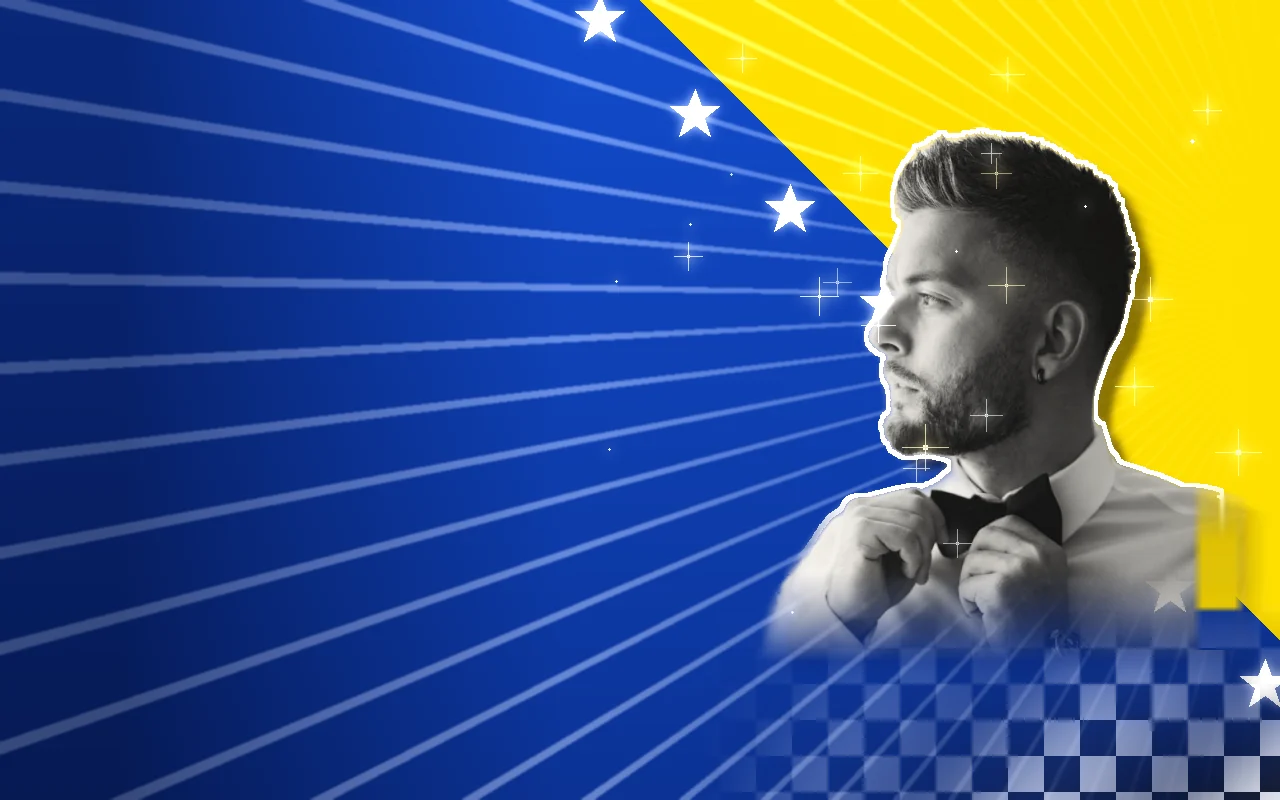
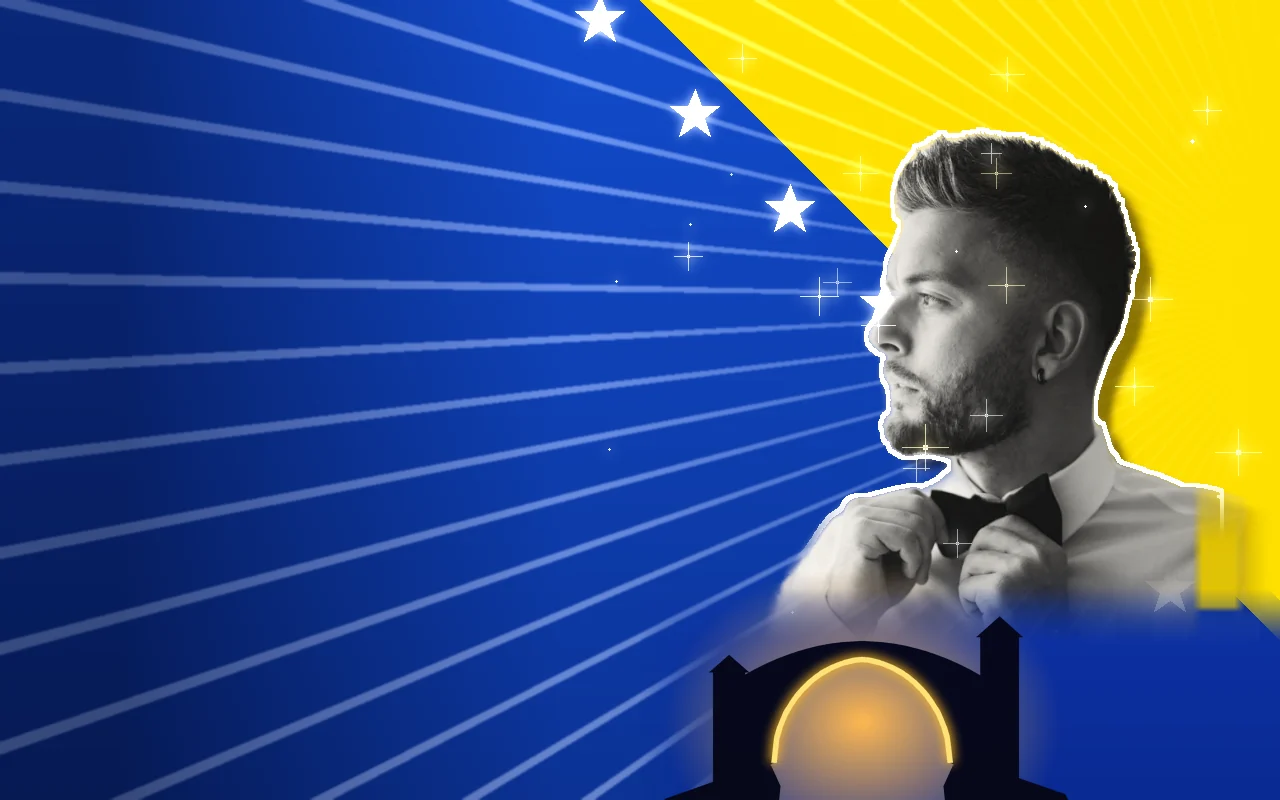
CITY E groups 2 + 3 — THE LAB ITEMS + THE TEXT PANEL HUGS THE TEXT. #206 (the Mostar flag card, renamed MOSTARAC per the owner's note): the chequered flag GONE, Mostar's Old Bridge drawn in its place (scripts/build-card-pass-art.py#stari_most — one tall slender arch + its two towers, a bold dark sil

Changed region(s): [[0.5312, 0.7188, 1.0, 1.0]]

diff --git a/api/_lib/lab-text.js b/api/_lib/lab-text.js
@@ -504,8 +504,8 @@ export const LAB_TEXT = {
  "full-card-gift-wastelander": {"name": "WASTELANDER · FULL CARD", "motion": "Grok's bunker terminal: THE GAME TYPES on the blank green screen, line by line — > SURVIVOR FILE · > RADS ...... 0 · > CAPS .. 1,024 · > STATUS LEGEND · > _ (dark phosphor green; the words are yours to change) — the block cursor blinks, the CRT's glow flickers, sparks crackle at the screen's edge now + then, dust drifts. Nothing of any game's trademarks. Reduced motion = the typed screen."},
  "card-gift-survivor": {"name": "SOLE SURVIVOR", "motion": "GIFT · 1 OF 1 (your buddy — give it in /admin → GIFTS; card art generated with Grok Imagine) — its own strip picture (the radiation sign far right): the haze breathing on the sun, embers drifting up, the sign creaking a hair."},
  "full-card-gift-survivor": {"name": "SOLE SURVIVOR · FULL CARD", "motion": "Grok's ruined city at a radioactive sunset: embers drift up across the card, the haze breathes on the sun, heat shimmer over the skyline, the rusted radiation sign creaks a hair on its stand. Nothing of any game's trademarks. Reduced motion = the approved picture."},
- "card-gift-zadomovinu": {"name": "ZA DOMOVINU", "motion": "GIFT · 1 OF 1 (the Mostar friend — give it in /admin → GIFTS) — THE FLAG STRIP (shared with STARI MOST; his face far right): the stars twinkling in turn, a sparkle or two."},
- "full-card-gift-zadomovinu": {"name": "ZA DOMOVINU · FULL CARD", "motion": "Bosnia's flag: the chequered race flag ripples bottom-right (a light band rolling along it), the white stars twinkle in turn, the speed lines rush out from behind him, sparkles on the gold. Reduced motion = the approved picture."},
+ "card-gift-zadomovinu": {"name": "MOSTARAC", "motion": "GIFT · 1 OF 1 (the Mostar friend — give it in /admin → GIFTS; was ZA DOMOVINU — the owner's Lab note, CITY E) — its OWN flag strip now: THE FLAG STRIP + a small Old Bridge (THE STARI MOST) left of him, his face far right: the stars twinkling in turn, a sparkle or two."},
+ "full-card-gift-zadomovinu": {"name": "MOSTARAC · FULL CARD", "motion": "Bosnia's flag — the chequered race flag GONE (CITY E): THE STARI MOST in its place under him, one tall slender stone arch + its two towers as a bold dark silhouette against a warm glow, the arch's underside lit gold; the white stars twinkle in turn, the speed lines rush out from behind him, sparkles on the gold. Reduced motion = the picture."},
  "card-gift-starimost": {"name": "STARI MOST", "motion": "GIFT · 1 OF 1 (the Mostar friend — give it in /admin → GIFTS; background art generated with Grok Imagine) — THE FLAG STRIP (shared with ZA DOMOVINU): the stars twinkling in turn, a sparkle or two."},
  "full-card-gift-starimost": {"name": "STARI MOST · FULL CARD", "motion": "Golden hour on the Old Bridge: the sun's flare breathes right behind his head, sparks spray off the red race car on the river road, the river shimmers; his shirt's lower edge blended into the water (no soft box). Reduced motion = the approved picture."},
  "card-first-ko": {"name":"FIRST KO","motion":"COMMON (PRISM DROP — knock a player out in a BATTLE): drawn in code in the night’s neon — ONE big cyan neon block (the long piece’s colour) hanging over the board’s faint grid, breathing; every ~7 s it trembles, white-hot CRACKS race from an impact point out to its edges, then it BURSTS — each shard a real piece of the block flying + spinning out, sparks ahead of them, a white flash + a ring — and “KO” pops in over it in red neon tube letters, holds, fades, and the block re-forms. Mostly at rest (a common). The block ≈ 0.80 across, clear of the gem."},
@@ -520,6 +520,10 @@ export const LAB_TEXT = {
 // THE LAB 2.0 (THE VAULT 2C) — WHAT CHANGED, per item + version (js/vault/catalog.js#LAB_V holds the numbers): the lab shows the newest
 // line beside his old mark ("CHANGED Nov 3 — …"). A pass that edits an item's art / words bumps its LAB_V + adds its line here.
 export const LAB_CHANGES = {
+  // (CITY E — the owner's Lab FIX marks, Nov 15)
+  'full-card-gift-zadomovinu': [{ v: 2, at: '2026-11-15', what: 'YOUR FIX (CITY E): the chequered flag is GONE (it read as Croatian) — THE STARI MOST in its place under him: one tall, slender stone arch with its two small towers, a bold dark silhouette against a warm glow, the arch’s underside lit gold; the card is now called MOSTARAC (your note).' }],
+  'card-gift-zadomovinu': [{ v: 2, at: '2026-11-15', what: 'With its full card’s FIX (CITY E): renamed MOSTARAC, and its slim card has its OWN flag strip now — a small Old Bridge between the flag’s yellow and him (the STARI MOST card keeps the shared strip).' }],
+  'emb-horseshoe': [{ v: 2, at: '2026-11-15', what: 'YOUR FIX (CITY E): it read as a donut — now a clear U: a wide open gap at the top, flared heels, nail holes along both arms.' }],
   'full-card-sg-ufo': [{ v: 2, at: '2026-11-15', what: 'THE STANDARD LAYOUT (CITY C): laid out like every other full card — the top line, the plate mid-left, the gem, MEMBER SINCE + MEMBER Nº bottom-left and the sighting’s name + spot line bottom-right; the subject moved RIGHT of the plate (it sat mid-card over the old bottom plate).' }],
   'full-card-sg-tr3b': [{ v: 2, at: '2026-11-15', what: 'THE STANDARD LAYOUT (CITY C): laid out like every other full card — the top line, the plate mid-left, the gem, MEMBER SINCE + MEMBER Nº bottom-left and the sighting’s name + spot line bottom-right; the subject moved RIGHT of the plate (it sat mid-card over the old bottom plate).' }],
   'full-card-sg-f22': [{ v: 2, at: '2026-11-15', what: 'THE STANDARD LAYOUT (CITY C): laid out like every other full card — the top line, the plate mid-left, the gem, MEMBER SINCE + MEMBER Nº bottom-left and the sighting’s name + spot line bottom-right; the subject moved RIGHT of the plate (it sat mid-card over the old bottom plate).' }],

diff --git a/js/vault/emblem-art.js b/js/vault/emblem-art.js
@@ -371,6 +371,8 @@ const FIN = {
 // bright accent); the effects TOUCH or SURROUND it. The neon ones carry their own accents (fx: their own layers); the specials use the
 // finishes below (METAL — silver · gold · black · grey · obsidian —, SPECTRAL, AURORA, COMET, BALLOON, COIN, AUTUMN).
 const circ = (cx, cy, r) => `M${cx - r} ${cy} A${r} ${r} 0 1 0 ${cx + r} ${cy} A${r} ${r} 0 1 0 ${cx - r} ${cy} Z`;
+// (CITY E — the horseshoe as a clear U: the flared heel tops, the straight arms, the toe's two arcs (radius 15 out, 9 in, round (24, 27)))
+const SHOE = 'M5.8 8.5 H14.8 L15 13 V27 A9 9 0 0 0 33 27 V13 L33.2 8.5 H42.2 L39 14 V27 A15 15 0 0 1 9 27 V14 Z';
 const star5 = (cx, cy, R, r = R * 0.45) => { let d = ''; for (let i = 0; i < 10; i++) { const a = -Math.PI / 2 + i * Math.PI / 5, q = i % 2 ? r : R; d += `${i ? 'L' : 'M'}${(cx + Math.cos(a) * q).toFixed(2)} ${(cy + Math.sin(a) * q).toFixed(2)} `; } return `${d}Z`; };
 const scaleY = (d, cy, k) => d.replace(/(-?\d+(?:\.\d+)?)\s+(-?\d+(?:\.\d+)?)/g, (m, x, y) => `${x} ${(cy + (+y - cy) * k).toFixed(2)}`);
 const mirrorX = d => d.replace(/([MLCQHAVZ])|(-?\d+(?:\.\d+)?)\s+(-?\d+(?:\.\d+)?)|(-?\d+(?:\.\d+)?)/g, (m, cmd, x, y, n) => (cmd ? cmd : x != null ? `${(48 - +x).toFixed(2)} ${y}` : m));
@@ -413,13 +415,14 @@ Object.assign(SH, {
       const B = C.layer('ve-lhbeam', `transform-origin:${pct(24)} ${pct(16.2)}`); B.g.append(el('path', { d: 'M24 16.2 L44 10.5 L44 21.9 Z', fill: '#ffe6a3', opacity: 0.56 }), el('path', { d: 'M24 16.2 L4 10.5 L4 21.9 Z', fill: '#ffe6a3', opacity: 0.28 }));
     } },
   // emb-horseshoe (THE CARD PASS — B7: OVERCLOCK's DUMB LUCK — you backed the winning horse) — a LUCKY GOLD horseshoe in neon tubes, opening UP
-  // (it holds the luck): the band one closed tube (gold) — a round ~300° shoe with a narrow gap at the top, so it never reads as a letter U, its six nail holes (pale gold dots — they read at 24 pt as a dotted band), a soft warm
-  // glow breathing behind it + a glint TWINKLING on its right heel (two layers: opacity + transform). Readable at the plate's ~24 pt size.
-  shoe: { tubes: [{ d: 'M17.45 10.95 A15.5 15.5 0 1 0 30.55 10.95 L26.33 16.31 A9 9 0 1 1 21.67 16.31 Z', col: '#ffc94a' },
-      { d: `${circ(12.9, 19.8, 1.05)} ${circ(12.17, 28.17, 1.05)} ${circ(16.97, 35.03, 1.05)} ${circ(31.03, 35.03, 1.05)} ${circ(35.83, 28.17, 1.05)} ${circ(35.1, 19.8, 1.05)}`, col: '#fff1b8', thin: true }],
+  // (it holds the luck). CITY E — the owner's Lab FIX ("it looks like a donut"): a clear U — a WIDE open gap at the top (the inner arms 18 apart),
+  // straight arms, FLARED heels (each heel wider than its arm), the round toe at the bottom; its eight nail holes along both arms (pale gold
+  // dots), a soft warm glow breathing behind it + a glint TWINKLING on its right heel (two layers: opacity + transform). Reads at ~24 pt.
+  shoe: { tubes: [{ d: SHOE, col: '#ffc94a' },
+      { d: [[12, 14.5], [12, 20.5], [12.2, 26.5], [14.3, 33.4], [36, 14.5], [36, 20.5], [35.8, 26.5], [33.7, 33.4]].map(([x, y]) => circ(x, y, 1.05)).join(' '), col: '#fff1b8', thin: true }],
     fx(C) {
-      const G = C.layer('ve-keyglow'); G.g.append(el('path', { d: 'M17.45 10.95 A15.5 15.5 0 1 0 30.55 10.95 L26.33 16.31 A9 9 0 1 1 21.67 16.31 Z', fill: '#ffd27a', opacity: 0.28 }));
-      const L = C.layer('ve-tw2', `transform-origin:${pct(33.5)} ${pct(8.6)}`); L.g.append(el('path', { d: starPath(33.5, 8.6, 4.4), fill: '#fffbe6' }), el('circle', { cx: 33.5, cy: 8.6, r: 3, fill: '#ffd27a', opacity: 0.4 }));
+      const G = C.layer('ve-keyglow'); G.g.append(el('path', { d: SHOE, fill: '#ffd27a', opacity: 0.28 }));
+      const L = C.layer('ve-tw2', `transform-origin:${pct(38.5)} ${pct(7.6)}`); L.g.append(el('path', { d: starPath(38.5, 7.6, 4.2), fill: '#fffbe6' }), el('circle', { cx: 38.5, cy: 7.6, r: 3, fill: '#ffd27a', opacity: 0.4 }));
     } },
   // emb-stars — three stars (gold, pink, cyan); the light HOPPING star to star
   stars3: { tubes: [{ d: star5(24, 13.5, 8), col: '#ffcf5a' }, { d: star5(13.5, 31.5, 7), col: '#ff5fb4' }, { d: star5(34.5, 31.5, 7), col: '#5fd7ff' }],

diff --git a/css/vault.css b/css/vault.css
@@ -1070,7 +1070,7 @@ body.reduced-fx .vl-gem-gl, .vl-still .vl-gem-gl { opacity: 0.9; transform: none
 .vl-fcm-g-wastelander .vl-mat { background-image: url('../assets/vault/gift/wastelander.webp'); background-position: 50% 50%; }
 .vl-s-g-survivor .vl-mat { background: #120c06 url('../assets/vault/gift/survivor-strip.webp') 50% 50% / cover no-repeat; }
 .vl-fcm-g-survivor .vl-mat { background-image: url('../assets/vault/gift/survivor.webp'); background-position: 50% 50%; }
-.vl-s-g-zadomovinu .vl-mat { background: #0a2a8f url('../assets/vault/gift/mostar-strip.webp') 50% 50% / cover no-repeat; }
+.vl-s-g-zadomovinu .vl-mat { background: #0a2a8f url('../assets/vault/gift/zadomovinu-strip.webp') 50% 50% / cover no-repeat; }   /* (CITY E: its own strip — + the Old Bridge) */
 .vl-s-g-starimost .vl-mat { background: #0a2a8f url('../assets/vault/gift/mostar-strip.webp') 50% 50% / cover no-repeat; }
 .vl-fcm-g-zadomovinu .vl-mat { background-image: url('../assets/vault/gift/zadomovinu.webp'); background-position: 50% 50%; }
 .vl-fcm-g-starimost .vl-mat { background-image: url('../assets/vault/gift/starimost.webp'); background-position: 50% 50%; }
@@ -1176,10 +1176,13 @@ body.reduced-fx .vl-gem-gl, .vl-still .vl-gem-gl { opacity: 0.9; transform: none
    its own size (its approved exception) + gets the wash; ON AIR unchanged. Static (no animation). */
 .vl-fc { --vl-tw: 8, 5, 14; --vl-ta: 0.6; }
 .vl-fc.vl-fcm-brushed, .vl-fc.vl-fcm-chrome, .vl-fc.vl-fcm-brass, .vl-fc.vl-fcm-platinum, .vl-fc.vl-fcm-g-goldenhour { --vl-tw: 255, 248, 232; --vl-ta: 0.62; }
-.vl-fc-house, .vl-fc-since, .vl-fc-card { position: relative; }
-.vl-fc-house::before, .vl-fc-since::before, .vl-fc-card::before { content: ''; position: absolute; inset: -0.2em -0.45em; z-index: -1; pointer-events: none;
+/* (CITY E — THE TEXT PANEL HUGS THE TEXT, the owner, Nov 15: the glass is trimmed to the WORDS + a small even pad on every full card — the
+   rank line wears its own, the MEMBER SINCE / MEMBER Nº rows theirs; never one panel over the empty space beside a short rank. The top line,
+   the foil line + the card's name already hug theirs) */
+.vl-fc-house, .vl-fc-rank, .vl-fc-rows, .vl-fc-card { position: relative; }
+.vl-fc-house::before, .vl-fc-rank::before, .vl-fc-rows::before, .vl-fc-card::before { content: ''; position: absolute; inset: -0.2em -0.45em; z-index: -1; pointer-events: none;
   border-radius: 0.9em; background: rgba(var(--vl-tw), var(--vl-ta)); box-shadow: 0 0 0.9em 0.55em rgba(var(--vl-tw), var(--vl-ta)); }
-.vl-fc-since::before { inset: -0.35em -0.55em; border-radius: 1.1em; }
+.vl-fc-rows::before { inset: -0.35em -0.55em; border-radius: 1.1em; }
 .vl-fc-house { font-size: max(10.5px, 2.9cqi); font-weight: 800; }   /* (11 px pushed every 1-of-1 line to its short "№ n" form at 402 — 10.5 keeps NEON SPEAKEASY beside the badge; fitTop never goes under 10) */
 .vl-fc-card { font-size: max(13px, 3.6cqi); font-weight: 800; letter-spacing: 0.14em; text-wrap: balance; }
 .vl-fc-since small { font-size: max(10px, 2.6cqi); }
@@ -1209,8 +1212,9 @@ body.reduced-fx .vl-gem-gl, .vl-still .vl-gem-gl { opacity: 0.9; transform: none
   background: linear-gradient(100deg, #4a2e04 0%, #6e4708 35%, #3a2403 60%, #5e3c06 100%); -webkit-background-clip: text; background-clip: text;
 }
 /* MEMBER SINCE + MEMBER Nº: label | value rows (the prototype) — the rank over both; never wrapped */
-.vl-fc-since { display: grid; grid-template-columns: auto auto; column-gap: 1.2em; row-gap: 0.62em; align-items: baseline; justify-content: start; }
-.vl-fc-since .vl-fc-rank { grid-column: 1 / -1; }
+.vl-fc-since { display: flex; flex-direction: column; align-items: flex-start; }
+.vl-fc-rows { display: grid; grid-template-columns: auto auto; column-gap: 1.2em; row-gap: 0.62em; align-items: baseline; justify-content: start; }
+.vl-fc-since .vl-fc-rank { display: block; }
 .vl-fc-since b { margin-top: 0; }
 .vl-fc-since small, .vl-fc-since b { white-space: nowrap; }
 

diff --git a/tests/integration/fullcard-preview.html b/tests/integration/fullcard-preview.html
@@ -6,7 +6,7 @@
 <title>Full cards — preview</title>
 <!-- CITY C — the REAL full cards (js/vault/full.js#fullCardEl) without Firebase, one under the other, each with its live effect:
      ?cards=card-founder,card-dev-switchboard,…  &fd=1 (a FOUNDING MEMBER)  &no=12 (MEMBER Nº)  &lv=12  &name=AMBER  &still=1 (reduced motion)
-     &glow=glow-candle (the name's glow) · &gilded=1 (+ THE GILDED fallback card — progress/card.js) · &strip=1 (+ each card's slim strip under it). The local server only. -->
+     &glow=glow-candle (the name's glow) · &emb=emb-horseshoe (the emblem on the plate + the strip) · &gilded=1 (+ THE GILDED fallback card — progress/card.js) · &strip=1 (+ each card's slim strip under it). The local server only. -->
 <link rel="preconnect" href="https://fonts.googleapis.com">
 <link rel="stylesheet" href="https://fonts.googleapis.com/css2?family=Chakra+Petch:wght@500;600;700&family=JetBrains+Mono:wght@400;700&family=Orbitron:wght@700;900&display=swap">
 <link rel="stylesheet" href="/css/base.css">
@@ -36,13 +36,13 @@ const q = new URLSearchParams(location.search);
 if (q.get('still') === '1') setFxReduced(true);
 const app = document.getElementById('app');
 const cards = q.get('strips') && !q.get('cards') ? [] : (q.get('cards') || 'card-founder,card-dev-switchboard,card-emerald').split(',').filter(Boolean);
-const who = { name: q.get('name') || 'AMBER', lv: Number(q.get('lv') || 12), avatar: 'hex', color: 'yellow', at: Date.UTC(2026, 10, 3), no: q.get('no') || '0012', fd: q.get('fd') === '1', glow: q.get('glow') || null };
+const who = { name: q.get('name') || 'AMBER', lv: Number(q.get('lv') || 12), avatar: 'hex', color: 'yellow', at: Date.UTC(2026, 10, 3), no: q.get('no') || '0012', fd: q.get('fd') === '1', glow: q.get('glow') || null, shape: q.get('emb') || null };   // (CITY E: &emb=emb-horseshoe — the plate + the strip wear that emblem)
 const surface = createSurface(app, { label: 'preview' });
 for (const id of cards) {
   app.append(h('div.lbl', id));
   const el = fullCardEl({ card: id, who: { ...who, ...(id.startsWith('card-dev-') ? { name: 'BEN', lv: 41, no: '0001', avatar: 'star', color: 'cyan' } : {}) }, spotted: Date.UTC(2026, 10, 3, 3, 14) });
   app.append(el); mountFull(surface, el, id, { seed: 3 });
-  if (q.get('strip') === '1') { const s = stripEl({ card: id, name: who.name, lv: who.lv, no: who.no }); app.append(s); const look = LOOKS[id]; if (look && look.fx && FX[look.fx]) surface.add(s, FX[look.fx], fxOpts(id, { seed: 1, calm: 1, radius: 12 })); }
+  if (q.get('strip') === '1') { const s = stripEl({ card: id, name: who.name, lv: who.lv, no: who.no, emblem: who.shape || undefined, avatar: who.shape ? 'hex' : undefined, color: who.shape ? 'yellow' : undefined }); app.append(s); const look = LOOKS[id]; if (look && look.fx && FX[look.fx]) surface.add(s, FX[look.fx], fxOpts(id, { seed: 1, calm: 1, radius: 12 })); }
 }
 // (CITY C group 3 — THE STRIP MATCH: ?strips=all|id,id → each slim strip TWICE — its material alone (#m-<id>, no effect) + live (#l-<id>);
 //  tests/integration/strip-match.mjs compares the two)

diff --git a/js/fx/gift-specs.js b/js/fx/gift-specs.js
@@ -234,14 +234,15 @@ export const GIFT_SPECS = Object.freeze({
     { t: 'region', src: [866, 3, 276, 253], mode: 'creak', piv: [1004, 294], amp: 0.007, period: 4.2, poly: [[1004, 11], [1136, 132], [1004, 259], [872, 132]] },
     { t: 'motes', box: [560, 0, 720, 256], n: 14, rgb: '255,150,60', size: [1.2, 3], dir: 'up', speed: 14, a: 0.7, kind: 'spark', tw: 0.7 },
   ] } },
-  // the flag card — Bosnia's flag: the chequered flag ripples, the stars twinkle in turn, the speed lines rush. Its strip = THE FLAG STRIP (shared
-  // with the Old Bridge card): the stars twinkle, a sparkle or two
+  // the flag card — Bosnia's flag: the stars twinkle in turn, the speed lines rush, the river shimmers under Mostar's old bridge (CITY E — the owner's
+  // Lab FIX: the chequered flag GONE, the bridge in its place; the card renamed — the name lives server-side). Its strip = its OWN flag strip (THE FLAG STRIP +
+  // a small Old Bridge left of him — the Old Bridge card keeps the shared one): the stars twinkle, a sparkle or two
   'card-gift-zadomovinu': { art: 'zadomovinu', hero: [870, 130, 270, 330], heroFull: [870, 130, 270, 330], strip: [50, 50], layers: [
     { t: 'rush', at: [1150, 330], ang: [2.72, 3.48], r: [380, 1250], n: 26, rgb: '220,235,255', a: 0.55, len: 160, speed: 0.55 },
-    { t: 'region', src: [740, 700, 540, 100], mode: 'ripple', axis: 'y', slices: 30, amp: 5, k: 7, speed: 3, shade: 0.12 },
-    { t: 'twinkle', pts: [[600, 17], [695, 113], [789, 207], [1263, 681]], rgb: '255,255,255', size: 34, period: 2.2 },
+    { t: 'shimmer', box: [600, 774, 680, 24], n: 22, rgb: '255,214,140', a: 0.5, len: 22 },
+    { t: 'twinkle', pts: [[600, 17], [695, 113], [789, 207]], rgb: '255,255,255', size: 34, period: 2.2 },
     { t: 'twinkle', pts: [[740, 60], [1210, 110], [1240, 450], [1000, 40]], rgb: '255,250,210', size: 22, period: 2.7 },
-  ], stripArt: { art: 'mostar-strip', h: 256, crop: [50, 50], hero: [958, 15, 135, 190], layers: [   // (the owner's flag strip, moved 100 px left)
+  ], stripArt: { art: 'zadomovinu-strip', h: 256, crop: [50, 50], hero: [958, 15, 135, 190], layers: [   // (the owner's flag strip, moved 100 px left, + the Old Bridge)
     { t: 'twinkle', pts: [[612, 32], [652, 76], [695, 116], [737, 160], [778, 200], [822, 242]], rgb: '255,255,255', size: 22, period: 2.4 },
     { t: 'twinkle', pts: [[520, 66], [725, 30], [905, 82], [1138, 80], [1048, 165]], rgb: '255,255,235', size: 18, period: 2.8 },
   ] } },

diff --git a/js/vault/full.js b/js/vault/full.js
@@ -169,8 +169,10 @@ export function fullCardEl({ card, tier, who = {}, spotted = null }) {
     // (BOARD 2.0 A: a sighting rebuilt on premium art keeps the SIGHTING's title + spot line — the printed name in the sighting's glow with the spot
     //  line under it, at the foot: vault/layout.js keeps the plate clear of them, the balloon's hero box above them)
     // (CITY C: the rank reads like everyone's — no "DEV ·"; MEMBER Nº sits under MEMBER SINCE — a member number stays server-only data, `who.no`)
-    h('div.vl-fc-foot', h('span.vl-fc-since', h('em.vl-fc-rank', bandOf(lv).name), h('small', 'MEMBER SINCE'), h('b', sinceOf(who.at)),
-      who.no != null && who.no !== '' && card !== 'card-founder' ? [h('small.vl-fc-no', 'MEMBER Nº'), h('b.vl-fc-no', String(who.no))] : null),
+    // (CITY E — THE TEXT PANEL HUGS THE TEXT: the rank and the MEMBER rows each wear their OWN glass (vault.css "THE CARD TEXT STANDARD"),
+    //  trimmed to their words + a small even pad — the card's art shows beside + between them; the block measured whole by vault/layout.js)
+    h('div.vl-fc-foot', h('span.vl-fc-since', h('em.vl-fc-rank', bandOf(lv).name), h('span.vl-fc-rows', h('small', 'MEMBER SINCE'), h('b', sinceOf(who.at)),
+      who.no != null && who.no !== '' && card !== 'card-founder' ? [h('small.vl-fc-no', 'MEMBER Nº'), h('b.vl-fc-no', String(who.no))] : null)),
       sgt ? h('span.vl-fc-card.vl-fc-sgt', h('b', cname), h('small.vl-fc-spot', spotted ? `${spotOf(card)} · ${timeOf(spotted)}` : spotOf(card))) : h('span.vl-fc-card', cname)),
     // FOUNDING MEMBER (THE VAULT 2A): the member's REAL number, stamped in gold — a numbered first edition (+ MEMBER SINCE moves in)
     card === 'card-founder' ? h('div.vl-fc-stamp', h('small', 'FOUNDING MEMBER'), h('b', who.no != null ? `№ ${who.no}` : '№ —'), h('em', `SINCE ${sinceOf(who.at)}`)) : null,

diff --git a/api/_lib/catalog.js b/api/_lib/catalog.js
@@ -103,7 +103,7 @@ export const ITEM_ROWS = [
   C('card-gift-notguilty', 'NOT GUILTY', 'legendary', '#ece8e0', '#e8405a', '#1a1a1a', 'Case dismissed. One of one.', { gift: true, ink: '#1a1416' }),
   C('card-gift-wastelander', 'WASTELANDER', 'legendary', '#050806', '#5cff7a', '#c8ffd0', 'The terminal still works. One of one.', { gift: true }),
   C('card-gift-survivor', 'SOLE SURVIVOR', 'legendary', '#120c06', '#ffb347', '#ffd23a', 'Last one standing at sundown. One of one.', { gift: true }),
-  C('card-gift-zadomovinu', 'ZA DOMOVINU', 'legendary', '#0b2a8f', '#ffcf1a', '#ffffff', 'Blue, gold + the chequered flag. One of one.', { gift: true }),
+  C('card-gift-zadomovinu', 'MOSTARAC', 'legendary', '#0b2a8f', '#ffcf1a', '#ffffff', 'Blue, gold + the Old Bridge. One of one.', { gift: true }),   // (CITY E — the owner's Lab note: was ZA DOMOVINU)
   C('card-gift-starimost', 'STARI MOST', 'legendary', '#1a1020', '#ffb35a', '#ff3b3b', 'Golden hour on the Old Bridge. One of one.', { gift: true }),
   // ---- PROGRESSION B — CITY SIGHTINGS: each legendary's MATCHED PAIR (a LEGENDARY card + its EMBLEM), first tap that the server
   // believes (core/sightings.js — the ids final, the art THE VAULT's: the city's own baked models on the cards)

diff --git a/js/vault/catalog.js b/js/vault/catalog.js
@@ -307,6 +307,8 @@ export const LAB_V = Object.freeze({
   'full-card-safecracker': 2, 'full-card-ghost-run': 2, 'full-card-perfect-week': 2,   // (DM2 — PENTHOUSE's new face: design A · THE DIAL, drawn in code)   // (Nov 6: the tape card's strip v4 — its effects back on their spots)
   'card-sg-btc': 2, 'full-card-sg-btc': 3,   // (THE BTC CARD — new premium art (Grok's ₿ balloon over the harbor) + THE BURNER FLARE; BOARD 2.0 A: the full card's name on one line, the sighting line back, the rise-in fixed)
   'card-dev-switchboard': 4, 'card-dev-source': 4, 'full-card-dev-switchboard': 6, 'full-card-dev-source': 6,
+  // (CITY E — THE LAB FEEDS EVERY PASS: the owner's two open FIX marks built — the Mostar flag card (the chequered flag → Mostar's old bridge, renamed) + the horseshoe as a U)
+  'full-card-gift-zadomovinu': 2, 'card-gift-zadomovinu': 2, 'emb-horseshoe': 2,
 });
 /** an item's current version */
 export const verOf = id => LAB_V[id] || 1;

diff --git a/scripts/build-card-pass-art.py b/scripts/build-card-pass-art.py
@@ -39,7 +39,10 @@ for name, rel in FILES.items():
 src = lambda n: Image.open(os.path.join(SRC, n)).convert('RGB')
 fit, sizes = {}, {}
 
+ONLY = set(filter(None, os.environ.get('ONLY', '').split(',')))   # (CITY E: ONLY=zadomovinu,zadomovinu-strip — a Lab FIX rebuilds just its art)
+
 def save(im, name, q=86):
+    if ONLY and name not in ONLY: return
     p = os.path.join(OUT, name + '.webp'); im.save(p, 'WEBP', quality=q, method=6); sizes[name] = os.path.getsize(p) // 1024
 
 def grok800(im, c):
@@ -74,6 +77,70 @@ def shifted(im, dx, fill='mirror'):
         col = np.asarray(im)[:, -8:-2].mean(axis=1, keepdims=True).astype(np.uint8)
         blk = Image.fromarray(np.repeat(col, dx, axis=1)).filter(ImageFilter.GaussianBlur(3))
         out.paste(blk, (im.width - dx, 0))
+    return out
+
+def stari_most(im, ox, oy, k, water=True, glow_r=150):
+    """CITY E — THE STARI MOST (Mostar's Old Bridge; the owner's Lab FIX on ZA DOMOVINU, Nov 15): ONE tall, slender stone arch over the river,
+    its humped walkway, a small tower at each end (Halebija left, a touch taller; Tara right) — a BOLD dark silhouette (the stone in shadow
+    against the flag's blue) with ONE bright accent: the arch's underside lit gold (+ its reflection on the river). Drawn at 4× and scaled
+    down (clean edges). (ox, oy) = the springing line's centre in art px, k = the scale (1 = the full card's 220-px span)."""
+    from PIL import ImageDraw
+    S = 4
+    Wd, Hd = im.width * S, im.height * S
+    sil = Image.new('L', (Wd, Hd), 0); acc = Image.new('L', (Wd, Hd), 0); riv = Image.new('L', (Wd, Hd), 0)
+    ds, da, dr = ImageDraw.Draw(sil), ImageDraw.Draw(acc), ImageDraw.Draw(riv)
+    P = lambda x, y: ((ox + x * k) * S, (oy + y * k) * S)
+    half, rise, ring = 110, 122, 11          # (the span 220, the rise 122 — tall + slender; the ring 11 thick)
+    def intra(u): return -rise * (1 - u * u) ** 0.5 * (1 + 0.06 * (1 - abs(u)))   # (a touch pointed at the crown)
+    N = 60
+    us = [i / N * 2 - 1 for i in range(N + 1)]
+    E = half + 40                             # (the walkway's ends — each meets its tower)
+    def deck(x): u = x / E; return -rise - ring - 10 + 44 * u * u   # (the walkway's hump: highest over the crown)
+    xs = [-E + i * (2 * E) / N for i in range(N + 1)]
+    top = [P(x, deck(x) - 8) for x in xs]     # (the parapet's top — one solid wall with the spandrels)
+    bot = [P(u * half, intra(u)) for u in reversed(us)]
+    ds.polygon(top + [P(E, 30), P(half, 0)] + bot + [P(-half, 0), P(-E, 30)], fill=255)
+    # the abutments + the rocky banks, down past the water line
+    ds.polygon([P(-E - 120, 90), P(-E - 96, 46), P(-E - 40, 26), P(-half - 4, 4), P(-half + 8, 30), P(-half + 2, 90)], fill=255)
+    ds.polygon([P(E + 130, 90), P(E + 104, 40), P(E + 46, 20), P(half + 4, 4), P(half - 8, 30), P(half - 2, 90)], fill=255)
+    # the towers (rising over the walkway's crown): Halebija (left, slimmer + lower here: clear of the MEMBER rows) + Tara (right, broader + taller)
+    for (cx, w, h, roof) in ((-(half + 56), 40, 112, 22), (half + 62, 48, 156, 26)):
+        ds.rectangle([P(cx - w / 2, -h), P(cx + w / 2, 60)], fill=255)
+        ds.polygon([P(cx - w / 2 - 5, -h), P(cx + w / 2 + 5, -h), P(cx, -h - roof)], fill=255)
+    # THE ACCENT: the arch's underside lit gold (a line + its glow)
+    line = [P(u * half, intra(u) + 1) for u in us]
+    da.line(line, fill=255, width=int(7 * k * S), joint='curve')
+    if water:
+        dr.rectangle([P(-(half + 300), 18), P(half + 520, 120)], fill=255)
+    small = lambda m: m.resize(im.size, Image.LANCZOS)
+    sil, acc, riv = small(sil), small(acc), small(riv)
+    out = im.convert('RGB')
+    if water:   # the river: a deep band under the bridge, feathered at its top
+        rv = Image.new('RGB', im.size, (6, 22, 84)); out = Image.composite(rv, out, riv.filter(ImageFilter.GaussianBlur(6 * k)))
+        # the gold arch's reflection: the line mirrored on the water, soft + dim
+        ref = acc.transpose(Image.FLIP_TOP_BOTTOM)
+        dy = round(2 * (oy + 1 * k)) - im.height
+        ref = ref.transform(im.size, Image.AFFINE, (1, 0, 0, 0, 1, -dy)).filter(ImageFilter.GaussianBlur(3 * k))
+        ref = Image.fromarray((np.asarray(ref).astype(np.float32) * 0.35).astype(np.uint8))
+        out = Image.composite(Image.new('RGB', im.size, (255, 196, 70)), out, ref)
+    # the backlight: a warm sunset glow behind the arch — the silhouette reads crisp against it (the opening glows)
+    if glow_r:
+        gy, gx = np.mgrid[0:im.height, 0:im.width]
+        cx_, cy_ = ox, oy - rise * 0.42 * k
+        d = np.sqrt(((gx - cx_) / (glow_r * k * 1.25)) ** 2 + ((gy - cy_) / (glow_r * k)) ** 2)
+        al = np.clip(1 - d, 0, 1) ** 1.1
+        o = np.asarray(out).astype(np.float32)
+        col = np.array([255, 184, 80], np.float32)
+        out = Image.fromarray((o * (1 - al[..., None]) + col * al[..., None]).clip(0, 255).astype(np.uint8))
+    # the stone: a deep indigo, a hair lighter at the top (the night sky on it)
+    a = np.zeros((im.height, im.width, 3), np.float32)
+    g = np.linspace(0, 1, im.height)[:, None]
+    a[..., 0] = 10 - 4 * g; a[..., 1] = 12 - 5 * g; a[..., 2] = 42 - 16 * g
+    out = Image.composite(Image.fromarray(a.clip(0, 255).astype(np.uint8)), out, sil)
+    glow = acc.filter(ImageFilter.GaussianBlur(7 * k))
+    glow = Image.fromarray(np.minimum(255, np.asarray(glow).astype(np.float32) * 1.6).astype(np.uint8))
+    out = Image.composite(Image.new('RGB', im.size, (255, 186, 40)), out, glow)
+    out = Image.composite(Image.new('RGB', im.size, (255, 226, 120)), out, acc)
     return out
 
 def compose(full, s, ox, y0, base=(0, 0, 0), fade=0, left='base', right='edge'):
@@ -148,7 +215,20 @@ for y in range(470, 650):
     for x in range(1192, 1244):
         k = w * min(1.0, (x - 1192) / 10) * min(1.0, (1244 - x) / 10)
         z[y, x] = z[y, x] * (1 - k) + ref * k
-save(Image.fromarray(z.clip(0, 255).astype(np.uint8)), 'zadomovinu')
+# (CITY E — the owner's Lab FIX on #206, Nov 15: the chequered race flag read as Croatian → GONE: the lower right repainted in the flag's own
+#  blue (a vertical gradient from the field's colour, feathered into the picture above + to the left), then THE STARI MOST drawn there)
+fill = np.zeros_like(z)
+gy = np.clip((np.arange(H) - 560) / 240.0, 0, 1)[:, None]
+fill[..., 0] = (14 * (1 - gy) + 10 * gy); fill[..., 1] = (52 * (1 - gy) + 42 * gy); fill[..., 2] = (168 * (1 - gy) + 146 * gy)
+yy, xx = np.mgrid[0:H, 0:W]
+m = np.clip((yy - 588) / 56.0, 0, 1) * np.clip((xx - 640) / 90.0, 0, 1)
+m = m * (yy > (xx - 1280) * 1.0 + 640 - 40)   # (below the flag's yellow triangle — its edge runs to the lower right corner)
+z = z * (1 - m[..., None]) + fill * m[..., None]
+zimg = stari_most(Image.fromarray(z.clip(0, 255).astype(np.uint8)), 862, 762, 0.8, water=False, glow_r=200)   # (under his hands, between MEMBER Nº and the card's name — the name sits on the right bank + tower, the left tower under the date)
+save(zimg, 'zadomovinu')
+# (its OWN strip now — THE FLAG STRIP + a small Old Bridge between the flag's yellow and him, well right of the name; the Old Bridge card
+#  keeps the shared mostar-strip)
+save(stari_most(shifted(src('mostar-flag-strip.png'), 100, fill='edge'), 905, 236, 0.5, water=False, glow_r=150), 'zadomovinu-strip')
 # ---- STARI MOST — Grok's golden hour + him (the sun's flare, the sparks off the car, the river = the fx): his shirt's soft box blended
 #      into the river — the river's own rows from left of him (y 470–560) laid under his lower edge with a ragged, feathered top
 s_ = np.asarray(src('stari-most-full.png')).astype(np.float32)
